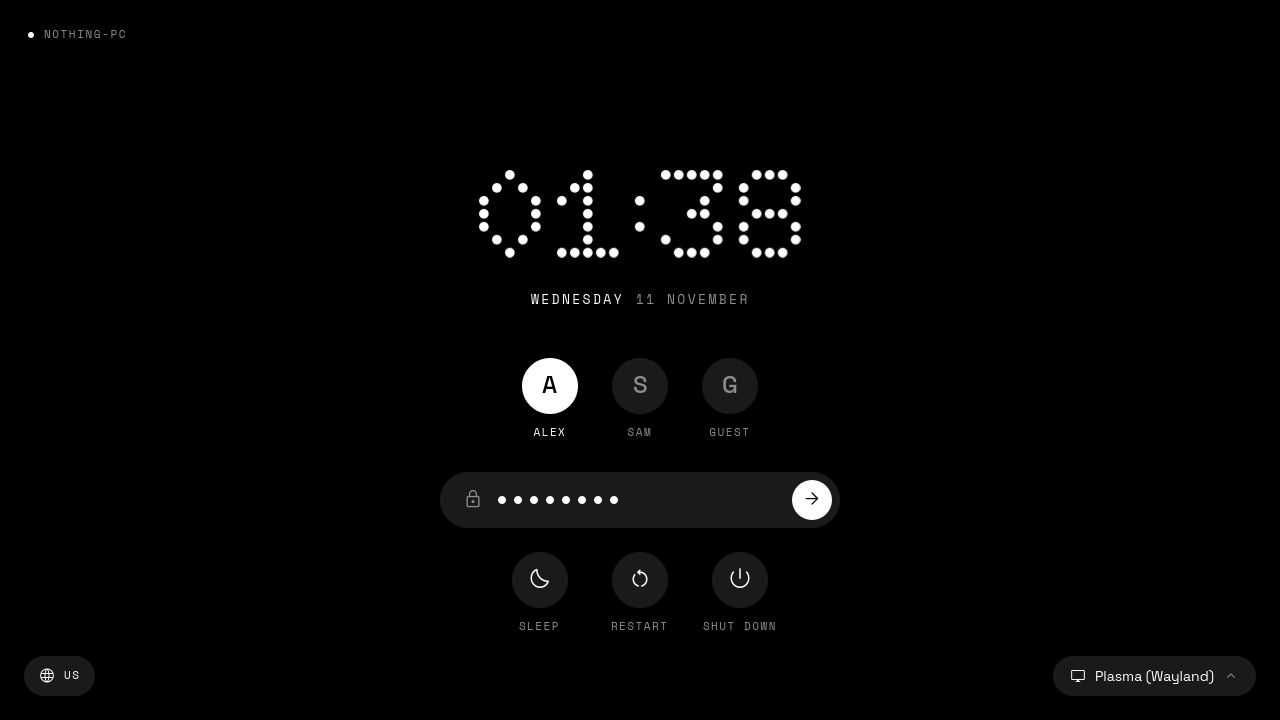
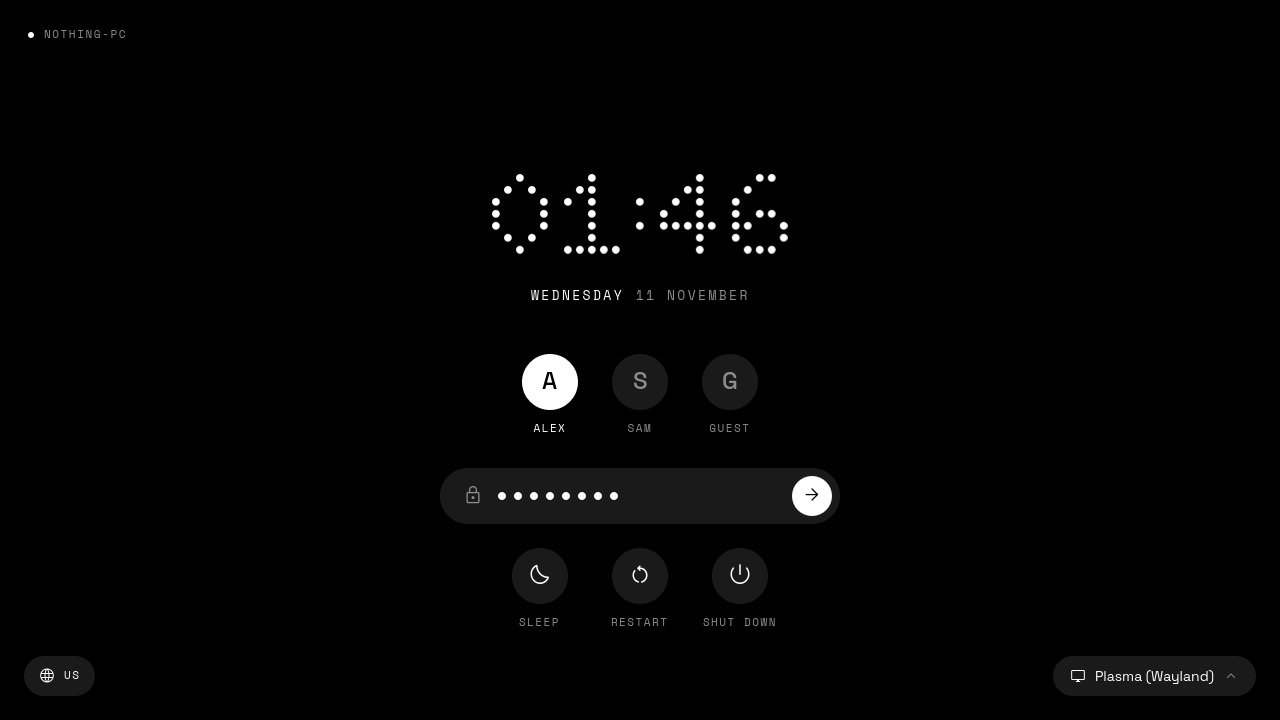
lookandfeel: round 4

diff --git a/plasma/lookandfeel/org.nothing.desktop/contents/splash/Splash.qml b/plasma/lookandfeel/org.nothing.desktop/contents/splash/Splash.qml
@@ -34,10 +34,13 @@ Rectangle {
     readonly property var accelerate: [0.3, 0.0, 0.8, 0.15, 1, 1]
 
     // ── grid ────────────────────────────────────────────────────────────────
-    readonly property real pitch: Math.round(Math.max(6, Math.min(width, height) * 0.0145))
-    readonly property real dot: pitch * 0.75                 // wordmark dot
+    // Same round-dot renderer rules as the shared DotString (dot:pitch ≈ 0.65), pitch step 12.
+    readonly property real pitch: 12
+    readonly property real dot: 8                            // wordmark dot
     readonly property real bigDot: dot * 2                   // progress dot = 2× wordmark dot
-    readonly property real bigPitch: pitch * 4                // progress dots sit on wordmark columns 2 + 4·i
+    readonly property real bigPitch: pitch * 3               // 36 px: progress dots on every 3rd wordmark column
+    // first progress column, so the 7-dot row is centred under the wordmark's columns
+    readonly property int progressCol0: Math.round(((columns - 1) - (dotCount - 1) * 3) / 2)
 
     // Wordmark dot positions in grid units: [{c, r}], plus total columns.
     readonly property var cells: {
@@ -110,8 +113,8 @@ Rectangle {
                     Rectangle {
                         id: pdot
                         required property int index
-                        // centred under wordmark column 2 + 4·i, on grid row `progressRow`
-                        x: (2 + index * 4) * root.pitch + root.dot / 2 - root.bigDot / 2
+                        // centred under wordmark column progressCol0 + 3·i, on grid row `progressRow`
+                        x: (root.progressCol0 + index * 3) * root.pitch + root.dot / 2 - root.bigDot / 2
                         y: grid.progressRow * root.pitch + root.dot / 2 - root.bigDot / 2
                         readonly property bool isLast: index === root.dotCount - 1
                         readonly property bool isLit: isLast ? root.done : index < root.lit
@@ -139,10 +142,10 @@ Rectangle {
             anchors.bottom: parent.bottom
             anchors.bottomMargin: 32
             text: "PLASMA  ·  CACHYOS"
-            color: root.fg3
+            color: "#5c5c5c"
             font.family: "Space Mono"
             font.pixelSize: 11
-            font.letterSpacing: 2.4
+            font.letterSpacing: 11 * 0.12
         }
     }
 

diff --git a/sddm/nothing/Main.qml b/sddm/nothing/Main.qml
@@ -196,8 +196,10 @@ Rectangle {
                     anchors.horizontalCenter: parent.horizontalCenter
                     hours: root.use24h ? (h < 10 ? "0" : "") + h : String((h + 11) % 12 + 1)
                     minutes: Qt.formatTime(root.now, "mm")
-                    // multiple of 10 → integer dot pitch, so the canvas never clips the last row
-                    size: Math.max(60, Math.floor(Math.min(root.height * 0.19, root.width * 0.15, 230) / 10) * 10)
+                    // dot pitch snapped to the system steps 5/8/12/15 px (size = 10 × pitch)
+                    readonly property real fitPitch: Math.min(root.height * 0.19, root.width * 0.15) / 10
+                    size: 10 * (fitPitch >= 15 ? 15 : fitPitch >= 12 ? 12 : fitPitch >= 8 ? 8 : 5)
+                    dotRatio: 0.65
                     color: root.fg
                     width: implicitWidth
                     height: implicitHeight

diff --git a/plasma/lookandfeel/org.nothing.desktop/contents/lockscreen/LockScreenUi.qml b/plasma/lookandfeel/org.nothing.desktop/contents/lockscreen/LockScreenUi.qml
@@ -222,8 +222,9 @@ Item {
             id: clock
             visible: config.alwaysShowClock
             idle: !lockScreenRoot.uiVisible
-            // multiple of 10 → integer dot pitch, so the canvas never clips the last row
-            size: Math.max(60, Math.floor(Math.min(lockScreenRoot.height * 0.21, lockScreenRoot.width * 0.15, 230) / 10) * 10)
+            // dot pitch snapped to the system steps 5/8/12/15 px (size = 10 × pitch)
+            readonly property real fitPitch: Math.min(lockScreenRoot.height * 0.21, lockScreenRoot.width * 0.15) / 10
+            size: 10 * (fitPitch >= 15 ? 15 : fitPitch >= 12 ? 12 : fitPitch >= 8 ? 8 : 5)
             anchors.horizontalCenter: parent.horizontalCenter
             y: lockScreenRoot.uiVisible
                 ? lockScreenRoot.activeTop

diff --git a/sddm/nothing/components/DotString.qml b/sddm/nothing/components/DotString.qml
@@ -10,7 +10,7 @@ Canvas {
     id: root
     property string text: ""
     property real size: 60
-    property real dotRatio: 0.75             // dot diameter / pitch (Doto ≈ 0.75)
+    property real dotRatio: 0.65             // dot diameter / pitch (system-wide ≈ 0.65)
     property color color: "#ffffff"
     property color colonColor: color         // e.g. Theme.red for a red clock colon
     property color dimColor: "transparent"   // unlit dots inside each glyph cell

diff --git a/plasma/lookandfeel/org.nothing.desktop/contents/lockscreen/NClock.qml b/plasma/lookandfeel/org.nothing.desktop/contents/lockscreen/NClock.qml
@@ -36,7 +36,7 @@ Column {
         size: clock.size
         // AOD: ~60% grey, thinner dots
         color: clock.idle ? "#9a9a9a" : Theme.fg
-        dotRatio: clock.idle ? 0.6 : 0.75
+        dotRatio: 0.65   // one dot renderer system-wide: dot:pitch ≈ 0.65
         width: implicitWidth
         height: implicitHeight
         Accessible.role: Accessible.StaticText

diff --git a/sddm/nothing/components/DotTime.qml b/sddm/nothing/components/DotTime.qml
@@ -11,7 +11,7 @@ Item {
     property bool stacked: false
     property color color: "#ffffff"
     property color colonColor: color
-    property real dotRatio: 0.75
+    property real dotRatio: 0.65
     readonly property real pitch: size / 10
     // gap between stacked rows: two empty dot rows
     readonly property real rowGap: 2 * pitch + (pitch - pitch * dotRatio)
